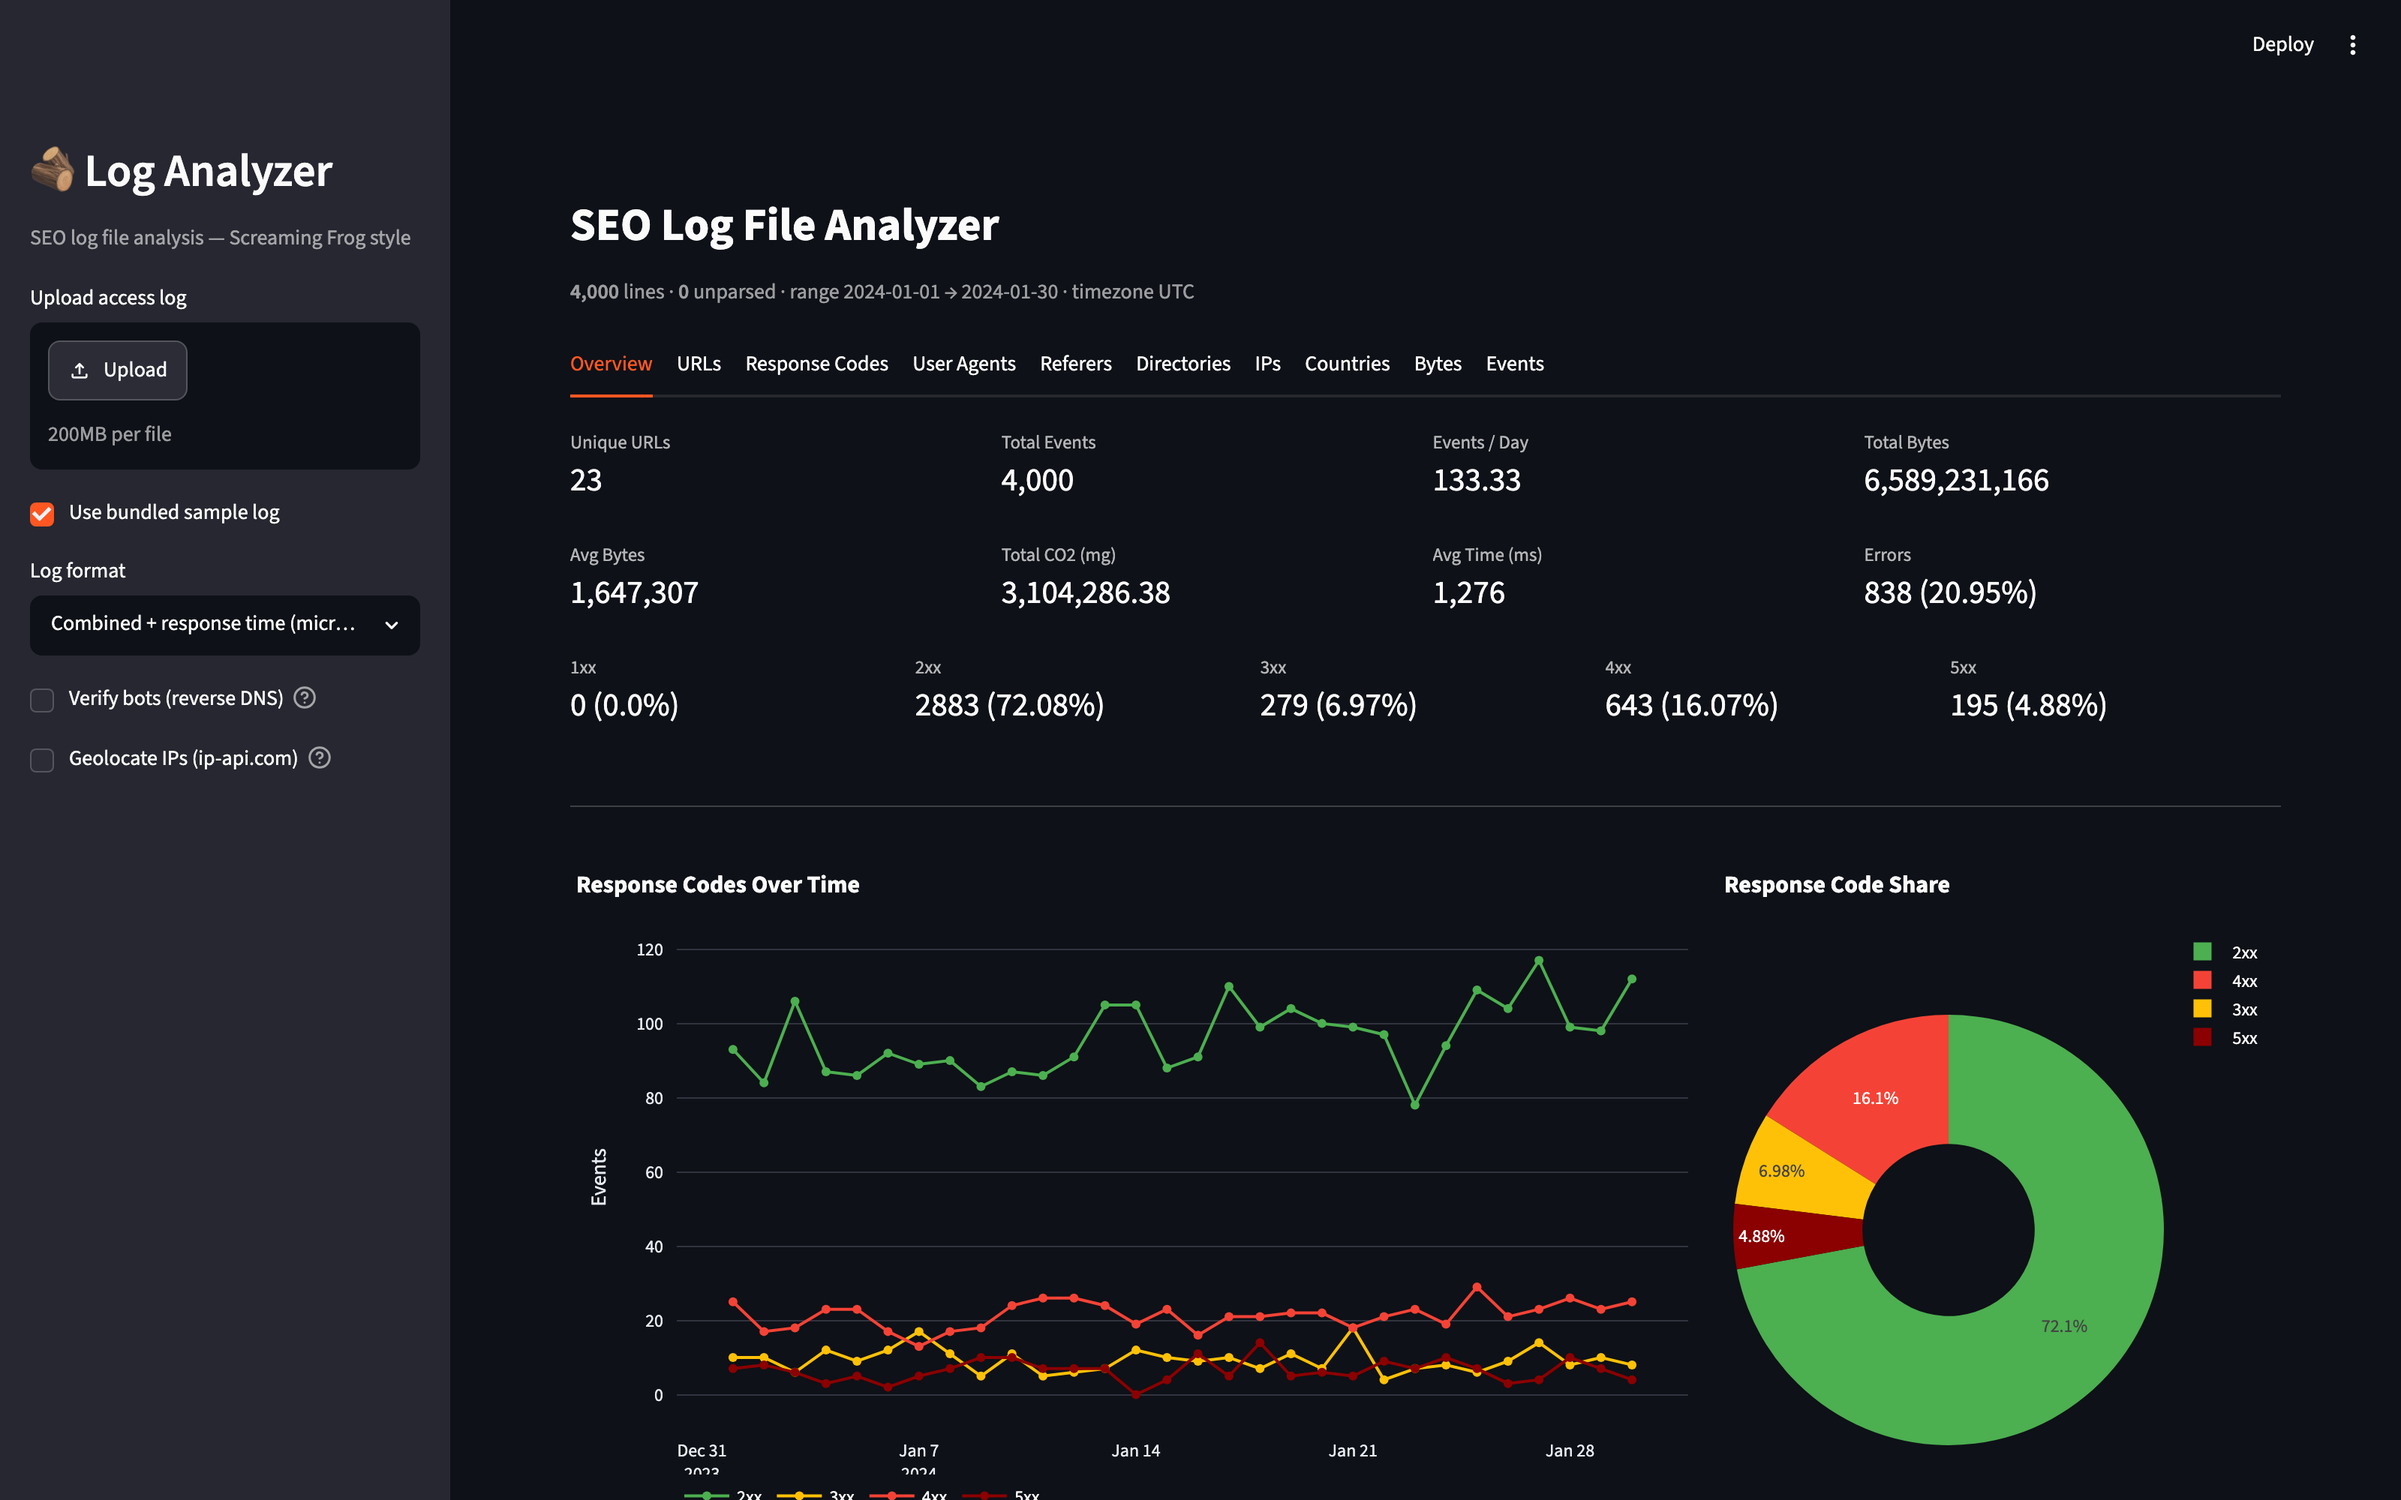
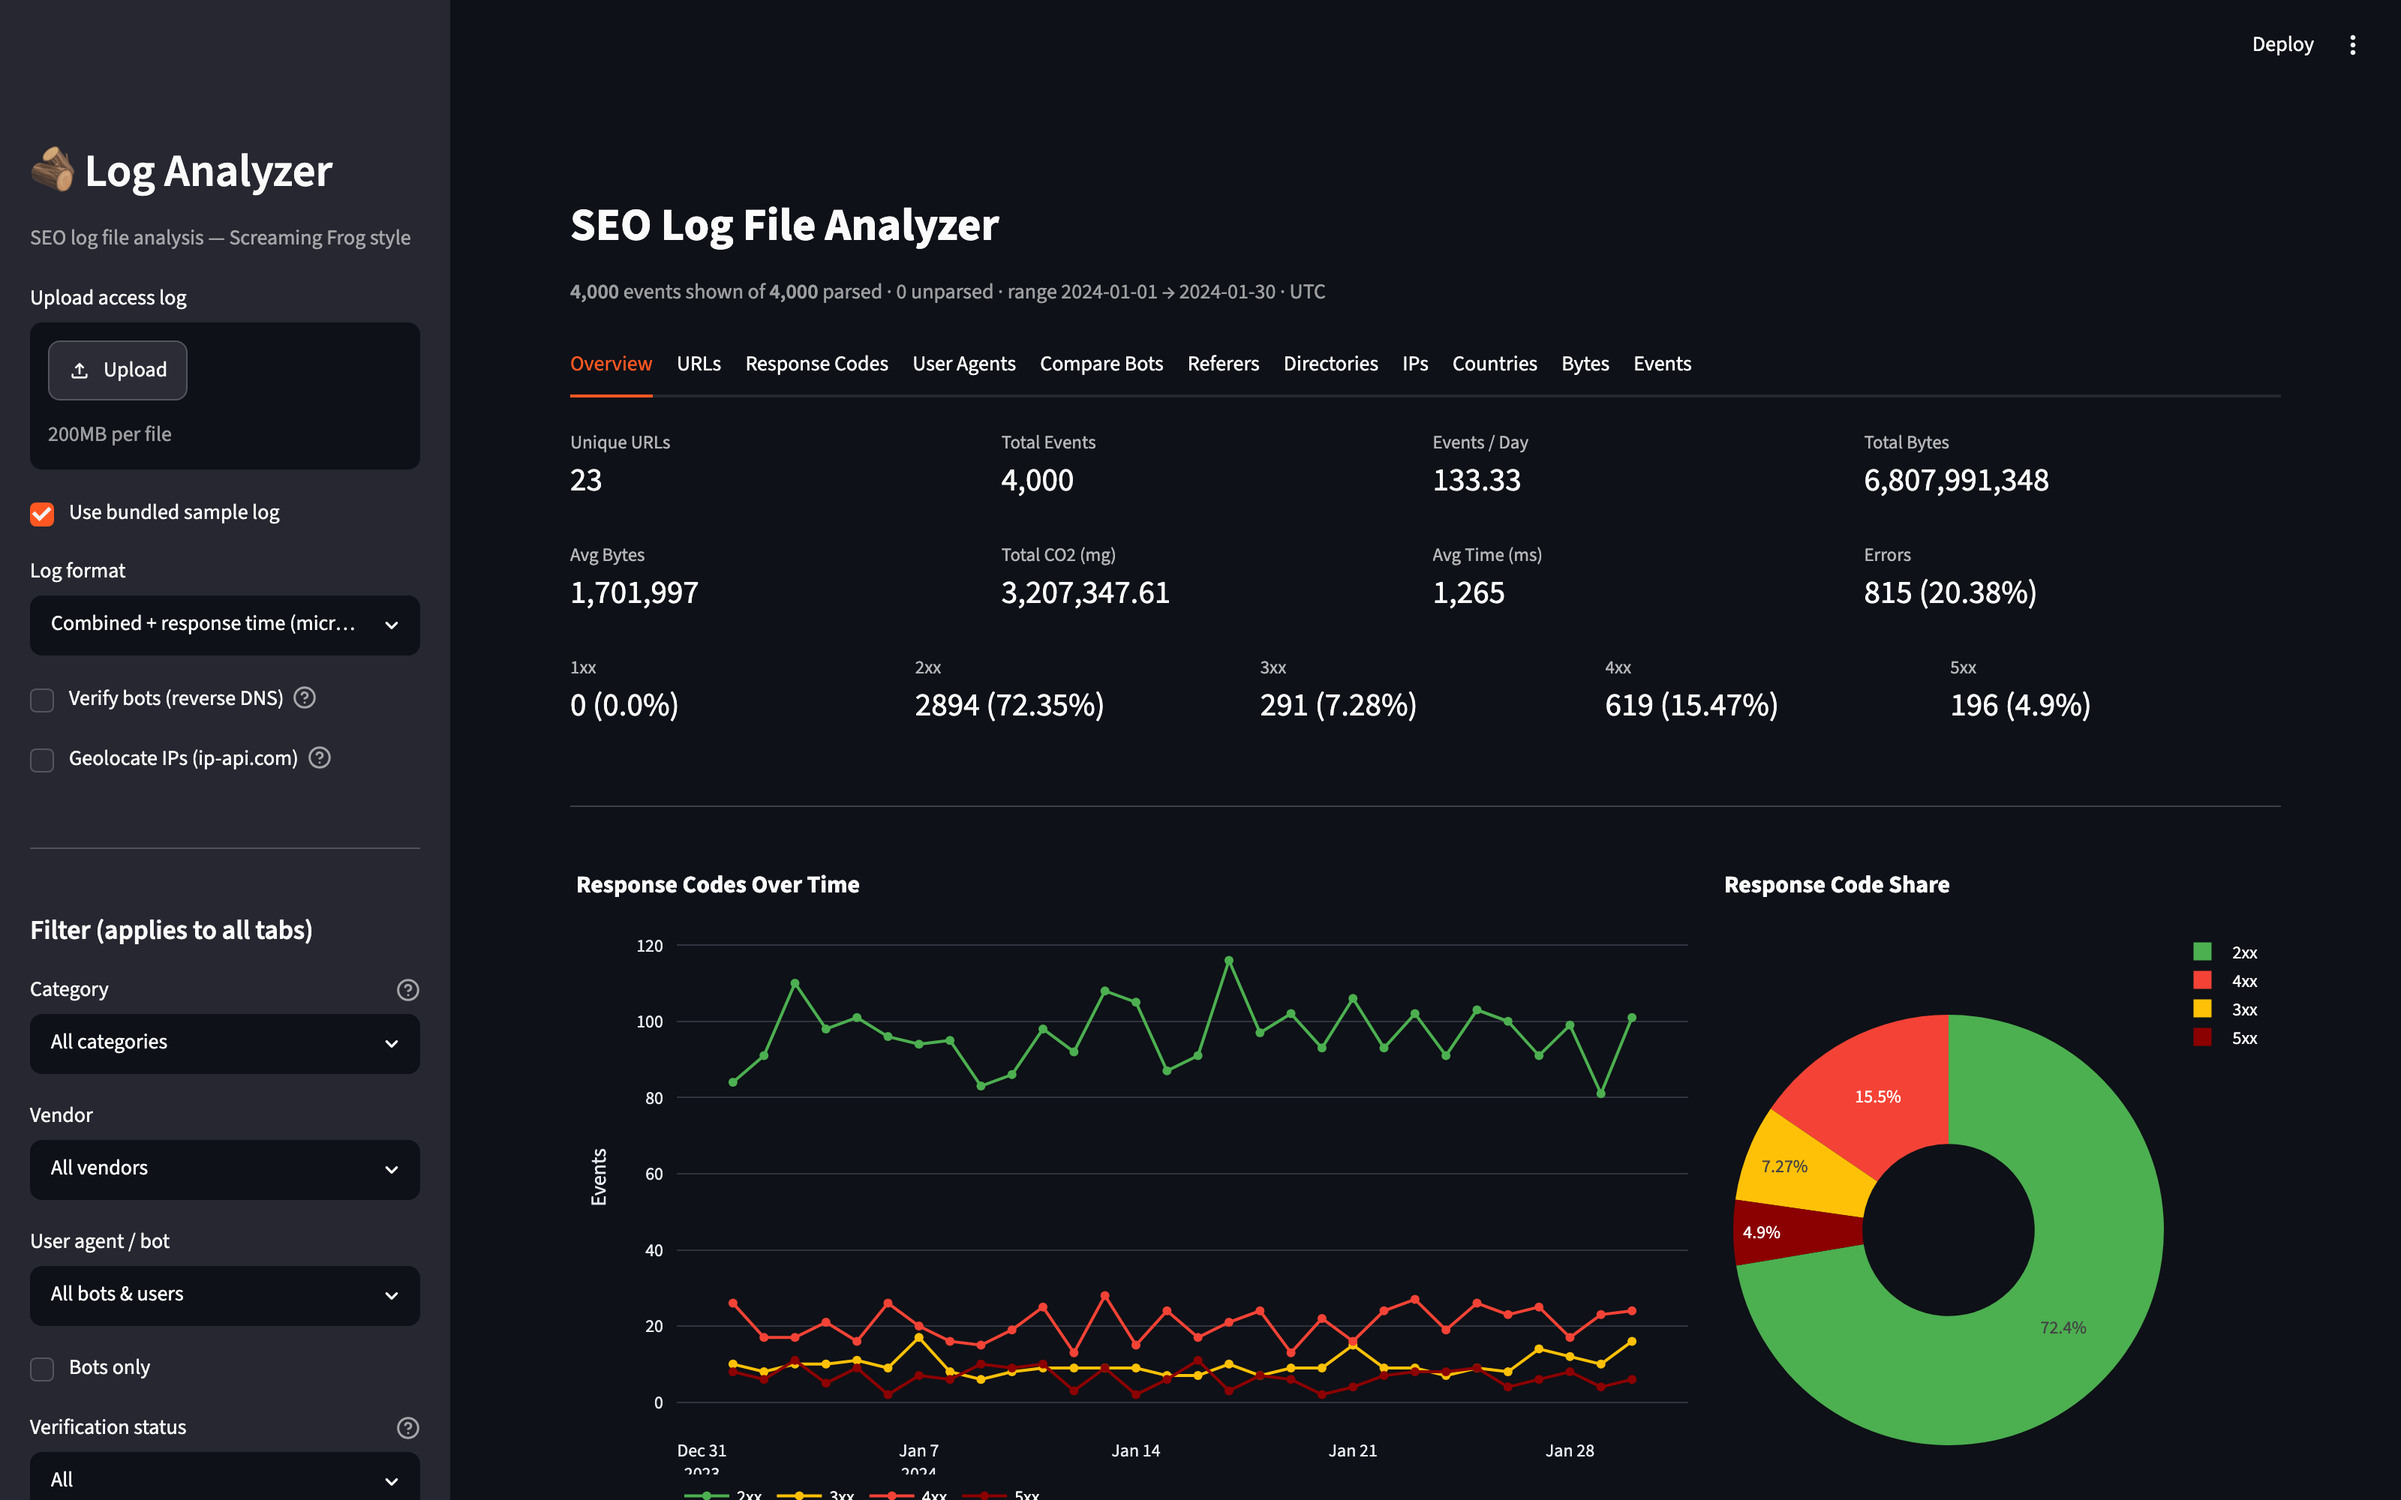
docs: add updated screenshots showing AI crawlers + Compare Bots
- capture_screenshot.py can now click a named tab and full-page capture
- Add docs/ai-crawlers.png (User Agents tab: vendor/category breakdown,
  AI Crawlers section, cascading sidebar filters)
- Add docs/compare-bots.png (footprint table + coverage matrix)
- Refresh docs/screenshot.png (Overview with new sidebar)
- Embed both new shots in README

diff --git a/capture_screenshot.py b/capture_screenshot.py
@@ -1,7 +1,14 @@
-"""Capture an Overview screenshot of the running app for the README.
+"""Capture dashboard screenshots for the README.
 
-Usage: streamlit must be running on the given URL. Then:
+Streamlit must be running on the given URL. Tabs are client-side, so this clicks
+the named tab before shooting.
+
+Usage:
+    python capture_screenshot.py <url> <out.png> [tab_name] [--full]
+
+Examples:
     python capture_screenshot.py http://localhost:8523 docs/screenshot.png
+    python capture_screenshot.py http://localhost:8523 docs/ai-crawlers.png "User Agents" --full
 """
 import sys
 
@@ -9,15 +16,21 @@ from playwright.sync_api import sync_playwright
 
 url = sys.argv[1] if len(sys.argv) > 1 else "http://localhost:8523"
 out = sys.argv[2] if len(sys.argv) > 2 else "docs/screenshot.png"
+tab_name = sys.argv[3] if len(sys.argv) > 3 and not sys.argv[3].startswith("--") else None
+full_page = "--full" in sys.argv
 
 with sync_playwright() as p:
     browser = p.chromium.launch()
     page = browser.new_page(viewport={"width": 1600, "height": 1000}, device_scale_factor=2)
     page.goto(url, wait_until="networkidle")
-    # Wait for Streamlit to finish rendering metrics + a plotly chart.
     page.wait_for_selector("text=Unique URLs", timeout=30000)
     page.wait_for_selector(".js-plotly-plot", timeout=30000)
-    page.wait_for_timeout(2500)  # let chart animations settle
-    page.screenshot(path=out, full_page=False)
+
+    if tab_name:
+        page.get_by_role("tab", name=tab_name).click()
+        page.wait_for_timeout(1500)
+
+    page.wait_for_timeout(2000)  # let render settle
+    page.screenshot(path=out, full_page=full_page)
     browser.close()
 print(f"saved {out}")

diff --git a/README.md b/README.md
@@ -22,6 +22,14 @@ Built on **advertools** (parsing) + **pandas** (aggregation) + **Plotly** (chart
 - **Compare Bots** — every bot's crawl footprint side by side, plus a top-URLs × bot
   coverage matrix that reveals which pages a bot never touches.
 
+**AI crawler breakdown + cascading filters**
+
+![AI crawler detection with vendor/category breakdown and sidebar filters](docs/ai-crawlers.png)
+
+**Compare Bots — footprints side by side + coverage matrix**
+
+![Compare Bots tab](docs/compare-bots.png)
+
 ## Features
 
 | Tab | What it shows |
